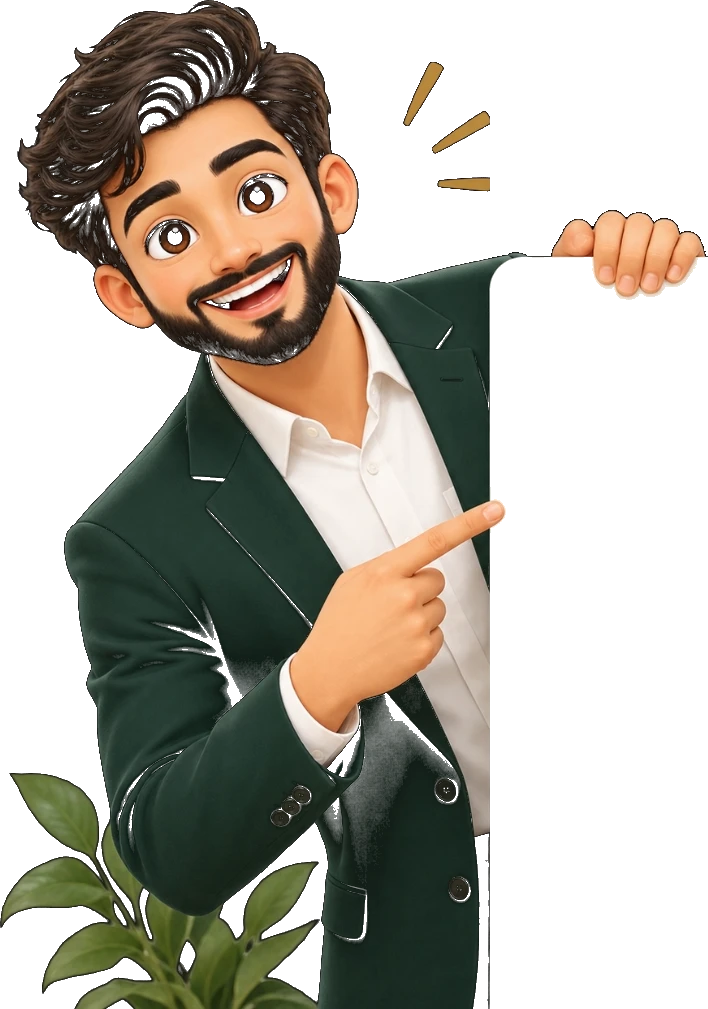
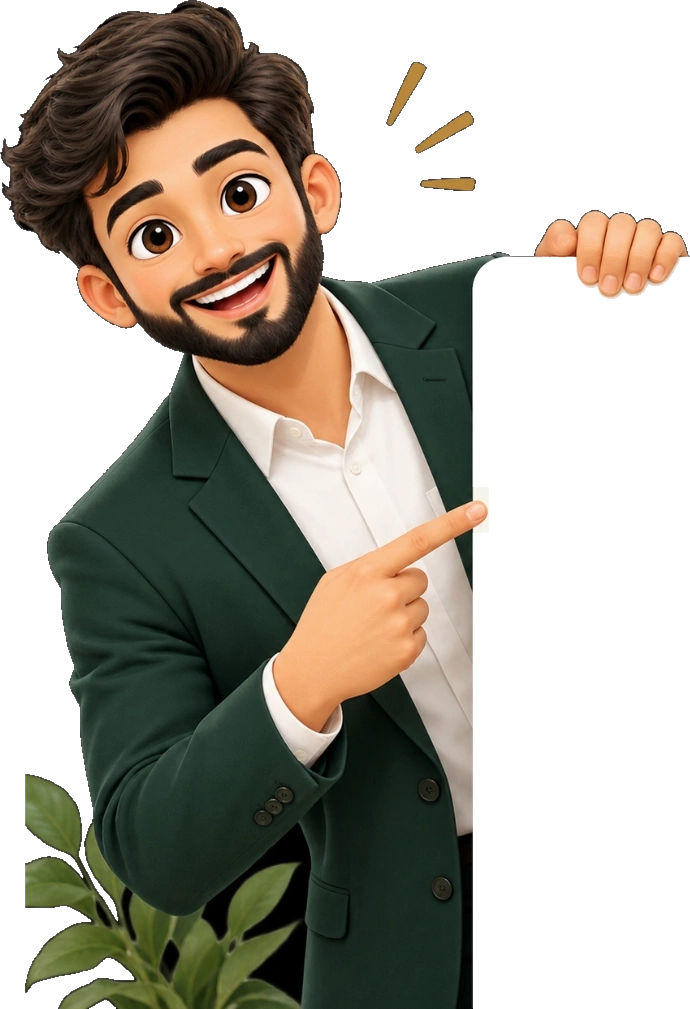
Fix character transparent cutout artifacts, clear text clearance from leaves, and remove character hover effect

diff --git a/app/globals.css b/app/globals.css
@@ -661,12 +661,16 @@
 .contact-grid-layout {
   position: relative;
   align-items: start;
-  grid-template-columns: minmax(320px, 420px) 1fr;
-  gap: clamp(110px, 15vw, 250px);
+  grid-template-columns: minmax(300px, 380px) 1fr;
+  gap: clamp(120px, 16vw, 260px);
 }
 
 .contact-grid-layout > .reveal:first-child {
-  max-width: 420px;
+  max-width: 380px;
+}
+
+.contact-grid-layout .contact-list {
+  max-width: 380px;
 }
 
 .contact-form-reveal {
@@ -684,26 +688,20 @@
   position: absolute;
   left: 0;
   top: 0;
-  transform: translate(-69.2%, -26.5%);
-  height: clamp(440px, 36vw, 560px);
+  transform: translate(-68.5%, -26.5%);
+  height: clamp(400px, 34vw, 510px);
   width: auto;
   pointer-events: none;
   z-index: 10;
   filter: drop-shadow(-8px 18px 36px rgba(16, 45, 39, 0.16));
-  transition: transform 0.6s var(--ease);
-}
-
-.contact-form-wrapper:hover .contact-advisor-character,
-.contact-form-wrapper:focus-within .contact-advisor-character {
-  transform: translate(-69.2%, -27.5%) scale(1.015);
 }
 
 @media (max-width: 1200px) {
   .contact-grid-layout {
-    gap: clamp(70px, 10vw, 140px);
+    gap: clamp(80px, 12vw, 160px);
   }
   .contact-advisor-character {
-    height: clamp(380px, 32vw, 480px);
+    height: clamp(350px, 30vw, 440px);
   }
 }
 
@@ -715,7 +713,8 @@
     grid-template-columns: 1fr;
     gap: 50px;
   }
-  .contact-grid-layout > .reveal:first-child {
+  .contact-grid-layout > .reveal:first-child,
+  .contact-grid-layout .contact-list {
     max-width: 100%;
   }
   .contact-form-wrapper {
@@ -730,10 +729,6 @@
     margin: 0 auto -30px 18px;
     display: block;
     z-index: 5;
-  }
-  .contact-form-wrapper:hover .contact-advisor-character,
-  .contact-form-wrapper:focus-within .contact-advisor-character {
-    transform: translateY(-4px) scale(1.02);
   }
 }
 
